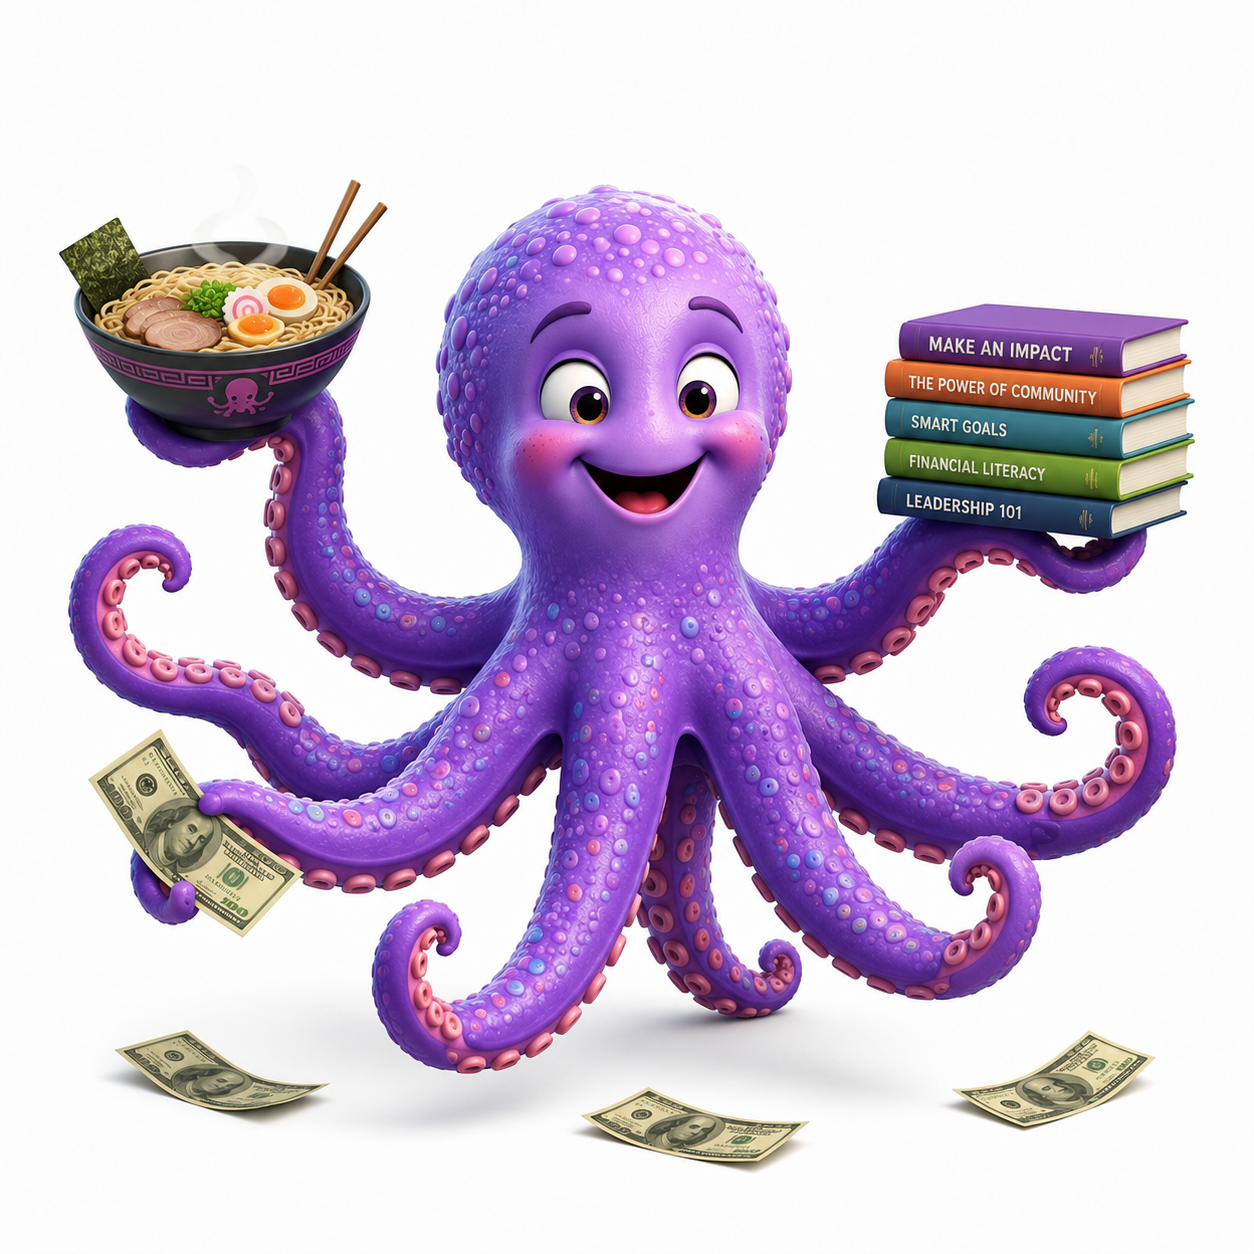
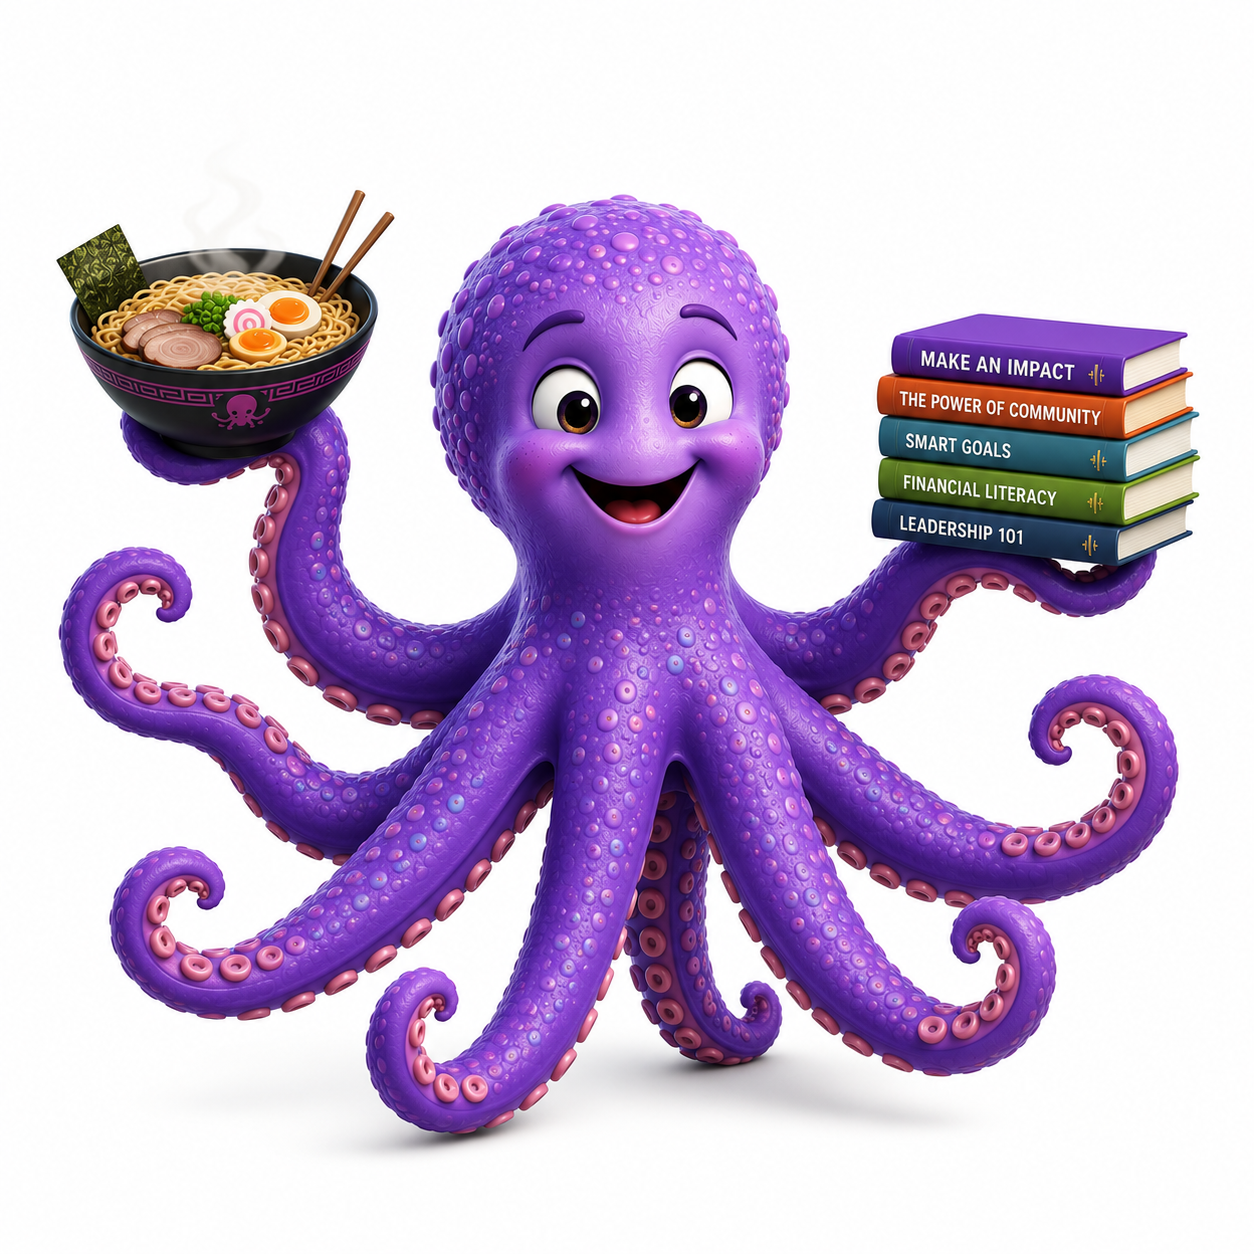
Update sharing features and Pollacle mascot

diff --git a/app/dashboard/share/[id]/page.tsx b/app/dashboard/share/[id]/page.tsx
@@ -1,10 +1,12 @@
 import { getServerSession } from "next-auth";
 import { redirect, notFound } from "next/navigation";
 import Link from "next/link";
+import { headers } from "next/headers";
 
 import { authOptions } from "@/app/lib/auth";
 import { prisma } from "@/app/lib/prisma";
 import { SITE_URL } from "@/app/lib/config";
+import { buildAbsoluteShareUrl } from "@/app/lib/share-url";
 
 import ShareButton from "@/components/ShareButton";
 
@@ -41,7 +43,10 @@ export default async function SharePage({
     redirect("/login");
   }
 
-
+  const founderEmail = process.env.FOUNDER_EMAIL;
+  if (!founderEmail || session.user.email !== founderEmail) {
+    redirect("/login");
+  }
 
 
   const fundraiser = await prisma.fundraiser.findFirst({
@@ -67,8 +72,15 @@ export default async function SharePage({
 
 
 
-  const base = SITE_URL.replace(/\/$/, "");
-  const shareUrl = `${base}/f/${fundraiser.slug}`;
+  const requestHeaders = headers();
+  const forwardedProto = requestHeaders.get("x-forwarded-proto") ?? "https";
+  const forwardedHost = requestHeaders.get("x-forwarded-host") ?? requestHeaders.get("host");
+
+  const origin = forwardedHost
+    ? `${forwardedProto}://${forwardedHost}`
+    : (SITE_URL || process.env.NEXT_PUBLIC_SITE_URL || process.env.NEXTAUTH_URL || "http://localhost:3000");
+
+  const shareUrl = buildAbsoluteShareUrl(`/f/${fundraiser.slug}`, origin);
 
 
 

diff --git a/app/f/[slug]/opengraph-image.tsx b/app/f/[slug]/opengraph-image.tsx
@@ -26,7 +26,47 @@ export default async function Image({
     },
   });
 
+  const founderEmail = process.env.FOUNDER_EMAIL;
+  if (!founderEmail || !fundraiser || fundraiser.status !== "ACTIVE") {
+    return new ImageResponse(
+      (
+        <div
+          style={{
+            fontSize: 60,
+            background: "white",
+            width: "100%",
+            height: "100%",
+            display: "flex",
+            alignItems: "center",
+            justifyContent: "center",
+          }}
+        >
+          Pollacle
+        </div>
+      )
+    );
+  }
 
+  const founder = await prisma.user.findUnique({ where: { email: founderEmail } });
+  if (!founder || fundraiser.userId !== founder.id) {
+    return new ImageResponse(
+      (
+        <div
+          style={{
+            fontSize: 60,
+            background: "white",
+            width: "100%",
+            height: "100%",
+            display: "flex",
+            alignItems: "center",
+            justifyContent: "center",
+          }}
+        >
+          Pollacle
+        </div>
+      )
+    );
+  }
 
   if (!fundraiser) {
 

diff --git a/app/lib/share-url.js b/app/lib/share-url.js
@@ -1,0 +1,38 @@
+function normalizeBaseUrl(baseUrl) {
+  if (!baseUrl) return "";
+  return baseUrl.replace(/\/$/, "");
+}
+
+function resolveShareUrl(url, baseUrl) {
+  if (!url) return "";
+
+  if (/^https?:\/\//i.test(url)) {
+    return url;
+  }
+
+  const origin = normalizeBaseUrl(baseUrl || process.env.NEXT_PUBLIC_SITE_URL || process.env.NEXTAUTH_URL || "");
+
+  if (!origin) {
+    return url;
+  }
+
+  return new URL(url, origin).toString();
+}
+
+function buildAbsoluteShareUrl(path, baseUrl) {
+  if (!path) return "";
+
+  const normalizedPath = path.startsWith("/") ? path : `/${path}`;
+  const origin = normalizeBaseUrl(baseUrl || process.env.NEXT_PUBLIC_SITE_URL || process.env.NEXTAUTH_URL || "");
+
+  if (!origin) {
+    return normalizedPath;
+  }
+
+  return new URL(normalizedPath, `${origin}/`).toString();
+}
+
+module.exports = {
+  resolveShareUrl,
+  buildAbsoluteShareUrl,
+};

diff --git a/components/ShareButton.tsx b/components/ShareButton.tsx
@@ -1,6 +1,7 @@
 "use client";
 
 import { useState } from "react";
+import { resolveShareUrl } from "@/app/lib/share-url";
 
 export default function ShareButton({
   url,
@@ -11,6 +12,8 @@ export default function ShareButton({
 }) {
 
   const [copied, setCopied] = useState(false);
+  const origin = typeof window !== "undefined" ? window.location.origin : "";
+  const shareUrl = resolveShareUrl(url, origin || undefined);
 
 
   async function share() {
@@ -26,7 +29,7 @@ export default function ShareButton({
 
           text: `Support ${title || "this fundraiser"} on Pollacle`,
 
-          url,
+          url: shareUrl,
 
         });
 
@@ -42,7 +45,7 @@ export default function ShareButton({
 
 
 
-    await navigator.clipboard.writeText(url);
+    await navigator.clipboard.writeText(shareUrl);
 
 
     setCopied(true);

diff --git a/app/lib/share-url.ts b/app/lib/share-url.ts
@@ -1,0 +1,28 @@
+export function resolveShareUrl(url: string, baseUrl?: string): string {
+  if (!url) return '';
+
+  if (/^https?:\/\//i.test(url)) {
+    return url;
+  }
+
+  const origin = baseUrl || process.env.NEXT_PUBLIC_SITE_URL || process.env.NEXTAUTH_URL || '';
+
+  if (!origin) {
+    return url;
+  }
+
+  return new URL(url, origin).toString();
+}
+
+export function buildAbsoluteShareUrl(path: string, baseUrl?: string): string {
+  if (!path) return '';
+
+  const normalizedPath = path.startsWith('/') ? path : `/${path}`;
+  const origin = baseUrl || process.env.NEXT_PUBLIC_SITE_URL || process.env.NEXTAUTH_URL || '';
+
+  if (!origin) {
+    return normalizedPath;
+  }
+
+  return new URL(normalizedPath, `${origin}/`).toString();
+}

diff --git a/tests/share-url.test.js b/tests/share-url.test.js
@@ -1,0 +1,16 @@
+const test = require('node:test');
+const assert = require('node:assert/strict');
+
+const { resolveShareUrl } = require('../app/lib/share-url.js');
+
+test('resolves relative fundraiser paths against the current origin', () => {
+  assert.equal(
+    resolveShareUrl('/f/my-fundraiser', 'https://pollacle.app'),
+    'https://pollacle.app/f/my-fundraiser'
+  );
+});
+
+test('preserves already absolute URLs', () => {
+  const url = 'https://example.com/f/my-fundraiser';
+  assert.equal(resolveShareUrl(url, 'https://pollacle.app'), url);
+});

diff --git a/app/f/[slug]/page.tsx b/app/f/[slug]/page.tsx
@@ -145,7 +145,7 @@ export default async function FundraiserPage({
 
 
 
-  if(!fundraiser){
+  if(!fundraiser || fundraiser.status !== "ACTIVE"){
 
     notFound();
 
